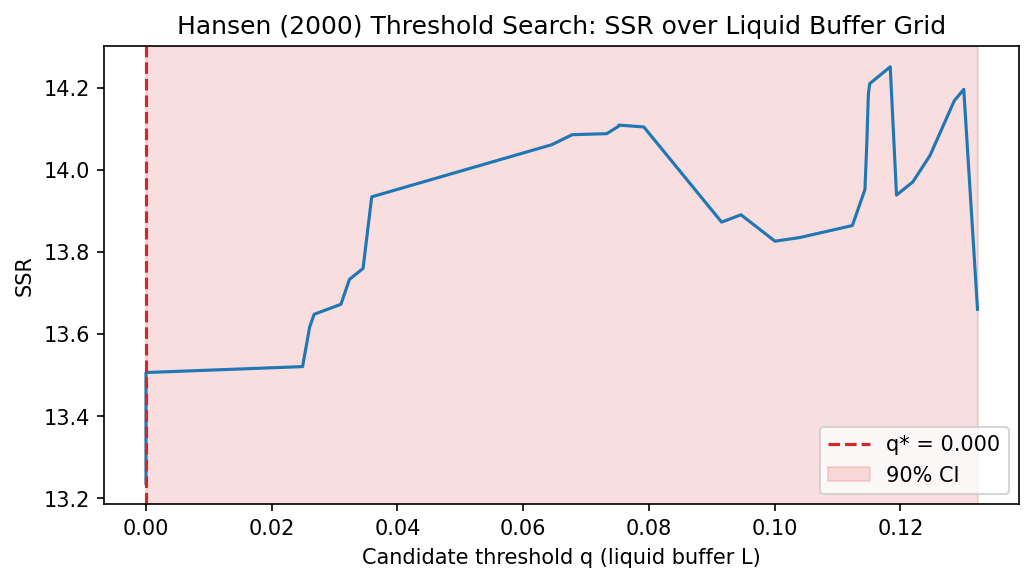
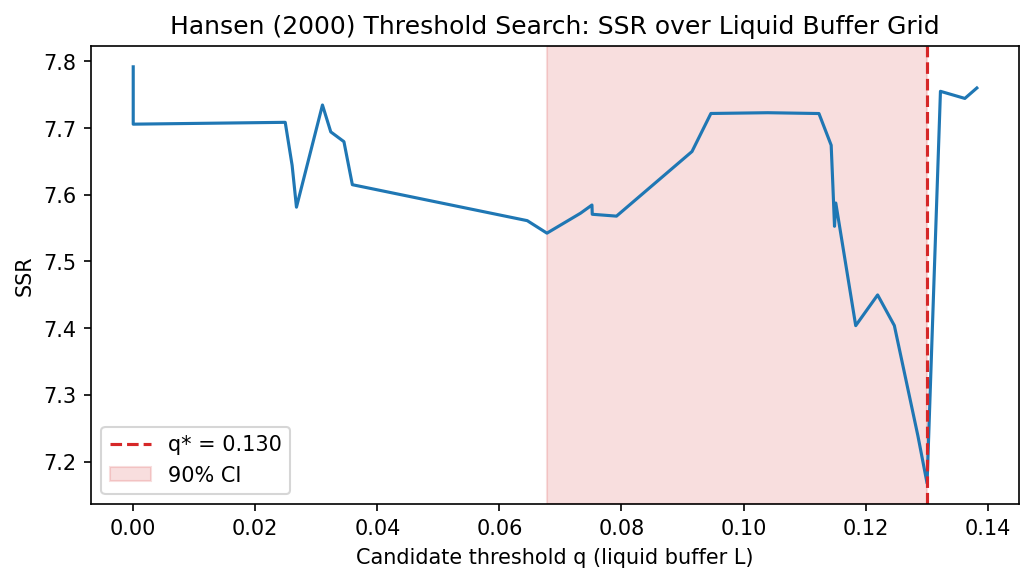
recalculate threshold

diff --git a/robustness.py b/robustness.py
@@ -2,7 +2,10 @@
 robustness.py — addresses the three diagnostic issues before paper writing:
   1. Mean-centering to reduce interaction-term VIF
   2. Engle-Granger cointegration test + first-differenced regression
-  3. Re-runs main spec with 3 NW lags (rule-of-thumb N=75)
+  3. Re-runs main spec with 3 NW lags (rule-of-thumb N≈50)
+
+Uses the decomposed buffer variables: theta (Treasury Exposure) and
+liq_buffer (Liquid Buffer), consistent with the main regression spec.
 
 Outputs: results/robustness.txt
 """
@@ -25,22 +28,24 @@ def log(msg=""):
 
 
 df = pd.read_csv(MONTHLY_CSV, index_col=0, parse_dates=True)
-df = df.dropna(subset=["spread", "dln_supply", "buffer_ratio", "vix", "dln_row_equity"])
+df = df.dropna(subset=["spread", "dln_supply", "theta", "liq_buffer", "vix", "dln_row_equity"])
 NW_LAGS = 3
 log(f"N={len(df)}  NW lags={NW_LAGS}")
 
 
-# ── 1. Mean-centering (fixes VIF) ───────────────────────────────────────────
+# ── 1. Mean-centering (fixes VIF on interaction term) ───────────────────────
 log("\n" + "="*60)
 log("1. MEAN-CENTERED SPECIFICATION  (reduces interaction-term VIF)")
+log("   Main spec: theta, liq_buffer, L × ΔlnS")
 log("="*60)
 
-df["dln_supply_c"]   = df["dln_supply"]   - df["dln_supply"].mean()
-df["buffer_ratio_c"] = df["buffer_ratio"] - df["buffer_ratio"].mean()
-df["buf_x_dlns_c"]   = df["dln_supply_c"] * df["buffer_ratio_c"]
+df["dln_supply_c"]  = df["dln_supply"]  - df["dln_supply"].mean()
+df["theta_c"]       = df["theta"]       - df["theta"].mean()
+df["liq_buffer_c"]  = df["liq_buffer"]  - df["liq_buffer"].mean()
+df["L_x_dlns_c"]    = df["dln_supply_c"] * df["liq_buffer_c"]
 
-X_c = sm.add_constant(df[["dln_supply_c", "velocity", "buffer_ratio_c",
-                            "buf_x_dlns_c", "vix", "dln_row_equity"]])
+X_c = sm.add_constant(df[["dln_supply_c", "velocity", "theta_c",
+                            "liq_buffer_c", "L_x_dlns_c", "vix", "dln_row_equity"]])
 y   = df["spread"]
 
 res_c = sm.OLS(y, X_c, missing="drop").fit(
@@ -48,8 +53,8 @@ res_c = sm.OLS(y, X_c, missing="drop").fit(
 log(str(res_c.summary()))
 
 # VIF after centering
-X_vif = df[["dln_supply_c", "velocity", "buffer_ratio_c",
-            "buf_x_dlns_c", "vix", "dln_row_equity"]].dropna()
+X_vif = df[["dln_supply_c", "velocity", "theta_c",
+            "liq_buffer_c", "L_x_dlns_c", "vix", "dln_row_equity"]].dropna()
 log("\n  VIF after mean-centering:")
 for i, col in enumerate(X_vif.columns):
     vif = variance_inflation_factor(X_vif.values, i)
@@ -62,12 +67,13 @@ log("\n" + "="*60)
 log("2. ENGLE-GRANGER COINTEGRATION TEST")
 log("   H0: no cointegration (i.e., regression IS spurious)")
 log("="*60)
-log("   If spread and dln_supply are both I(1) but cointegrated,")
+log("   If spread and regressors are both I(1) but cointegrated,")
 log("   OLS super-consistently estimates the long-run relationship.\n")
 
 pairs = [
     ("spread", "dln_supply"),
-    ("spread", "buffer_ratio"),
+    ("spread", "theta"),
+    ("spread", "liq_buffer"),
 ]
 for y_name, x_name in pairs:
     s1 = df[y_name].dropna()
@@ -82,24 +88,24 @@ for y_name, x_name in pairs:
 log("\n" + "="*60)
 log("3. FIRST-DIFFERENCED REGRESSION  (robustness for I(1) variables)")
 log("="*60)
-log("   ΔSpread_t = α + β1·Δ²lnS_t + β2·ΔB_t + β3·(ΔB_t × Δ²lnS_t)")
-log("             + β4·ΔV_t + β5·ΔVIX_t + β6·ΔlnN*_t + ε_t\n")
+log("   ΔSpread_t = α + β1·Δ²lnS_t + β2·Δθ_t + β3·ΔL_t")
+log("             + β4·(ΔL_t × Δ²lnS_t) + β5·ΔV_t + β6·ΔVIX_t + β7·ΔlnN*_t + ε_t\n")
 
-dfd = df[["spread", "dln_supply", "buffer_ratio", "velocity",
+dfd = df[["spread", "dln_supply", "theta", "liq_buffer", "velocity",
           "vix", "dln_row_equity"]].diff().dropna()
-dfd["buf_x_dlns_fd"] = dfd["dln_supply"] * dfd["buffer_ratio"]
+dfd["L_x_dlns_fd"] = dfd["dln_supply"] * dfd["liq_buffer"]
 
 y_fd = dfd["spread"]
-X_fd = sm.add_constant(dfd[["dln_supply", "velocity", "buffer_ratio",
-                              "buf_x_dlns_fd", "vix", "dln_row_equity"]])
+X_fd = sm.add_constant(dfd[["dln_supply", "velocity", "theta",
+                              "liq_buffer", "L_x_dlns_fd", "vix", "dln_row_equity"]])
 res_fd = sm.OLS(y_fd, X_fd, missing="drop").fit(
     cov_type="HAC", cov_kwds={"maxlags": NW_LAGS})
 log(str(res_fd.summary()))
 
-b1_fd = res_fd.params["dln_supply"];    p1_fd = res_fd.pvalues["dln_supply"]
-b3_fd = res_fd.params["buf_x_dlns_fd"]; p3_fd = res_fd.pvalues["buf_x_dlns_fd"]
-robust = (p1_fd < 0.1) or (p3_fd < 0.1)
-log(f"\n  Summary: β₁={b1_fd:.4f} (p={p1_fd:.3f})  β₃={b3_fd:.4f} (p={p3_fd:.3f})")
+b1_fd = res_fd.params["dln_supply"];   p1_fd = res_fd.pvalues["dln_supply"]
+b4_fd = res_fd.params["L_x_dlns_fd"]; p4_fd = res_fd.pvalues["L_x_dlns_fd"]
+robust = (p1_fd < 0.1) or (p4_fd < 0.1)
+log(f"\n  Summary: β₁={b1_fd:.4f} (p={p1_fd:.3f})  β₄={b4_fd:.4f} (p={p4_fd:.3f})")
 log(f"  Key results {'survive' if robust else 'do not survive'} first-differencing.")
 
 
@@ -107,17 +113,17 @@ log(f"  Key results {'survive' if robust else 'do not survive'} first-differenci
 log("\n" + "="*60)
 log("4. COEFFICIENT COMPARISON ACROSS SPECIFICATIONS")
 log("="*60)
-log(f"  {'Spec':<35} {'β₁(ΔlnS)':<12} {'p':<8} {'β₃(B×ΔlnS)':<14} {'p':<8} R²")
+log(f"  {'Spec':<35} {'β₁(ΔlnS)':<12} {'p':<8} {'β₄(L×ΔlnS)':<14} {'p':<8} R²")
 
 specs = [
-    ("Main (NW=3 lags)",           "dln_supply",   "buf_x_dlns",    res_c,  "dln_supply_c", "buf_x_dlns_c"),
-    ("First-differenced (NW=3)",   "dln_supply",   "buf_x_dlns_fd", res_fd, "dln_supply",   "buf_x_dlns_fd"),
+    ("Mean-centered (NW=3)",        res_c,  "dln_supply_c",  "L_x_dlns_c"),
+    ("First-differenced (NW=3)",    res_fd, "dln_supply",    "L_x_dlns_fd"),
 ]
-for label, _, _, res, b1k, b3k in specs:
+for label, res, b1k, b4k in specs:
     b1 = res.params.get(b1k, np.nan); p1 = res.pvalues.get(b1k, np.nan)
-    b3 = res.params.get(b3k, np.nan); p3 = res.pvalues.get(b3k, np.nan)
+    b4 = res.params.get(b4k, np.nan); p4 = res.pvalues.get(b4k, np.nan)
     r2 = res.rsquared
-    log(f"  {label:<35} {b1:<12.4f} {p1:<8.3f} {b3:<14.4f} {p3:<8.3f} {r2:.3f}")
+    log(f"  {label:<35} {b1:<12.4f} {p1:<8.3f} {b4:<14.4f} {p4:<8.3f} {r2:.3f}")
 
 
 # ── Save ─────────────────────────────────────────────────────────────────────